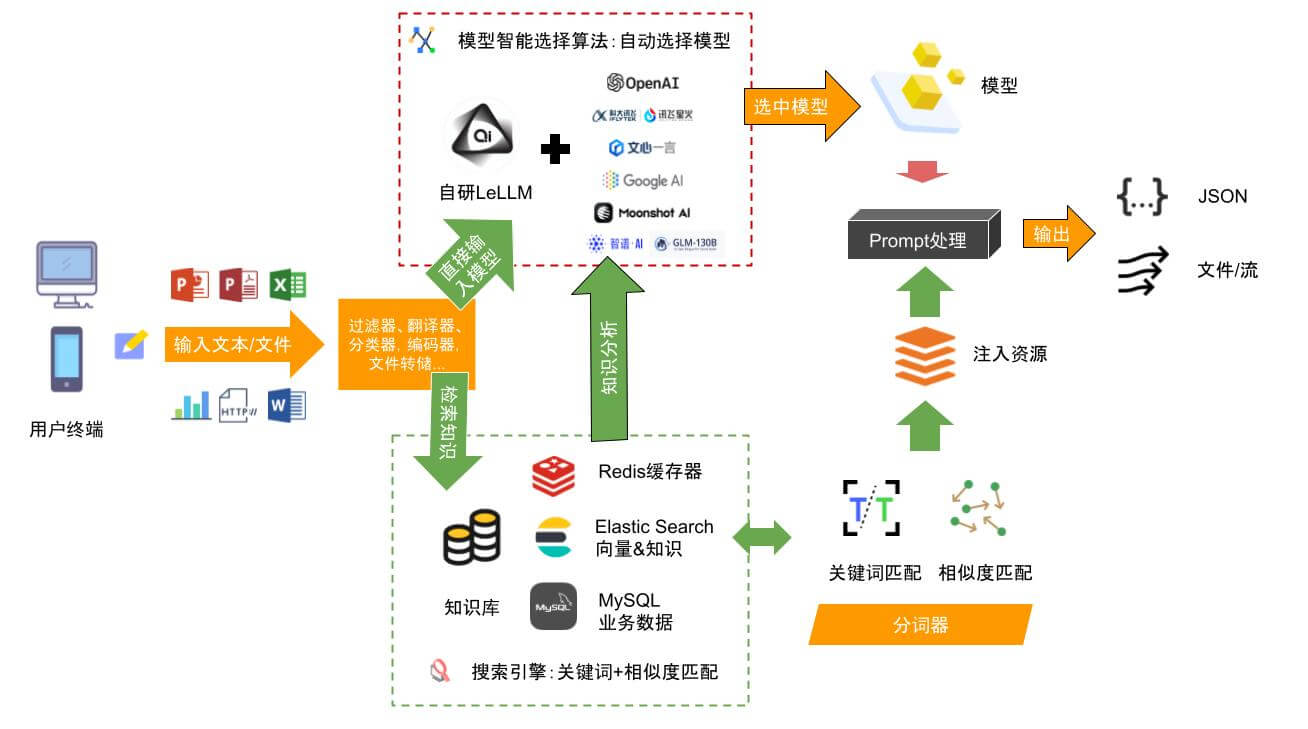
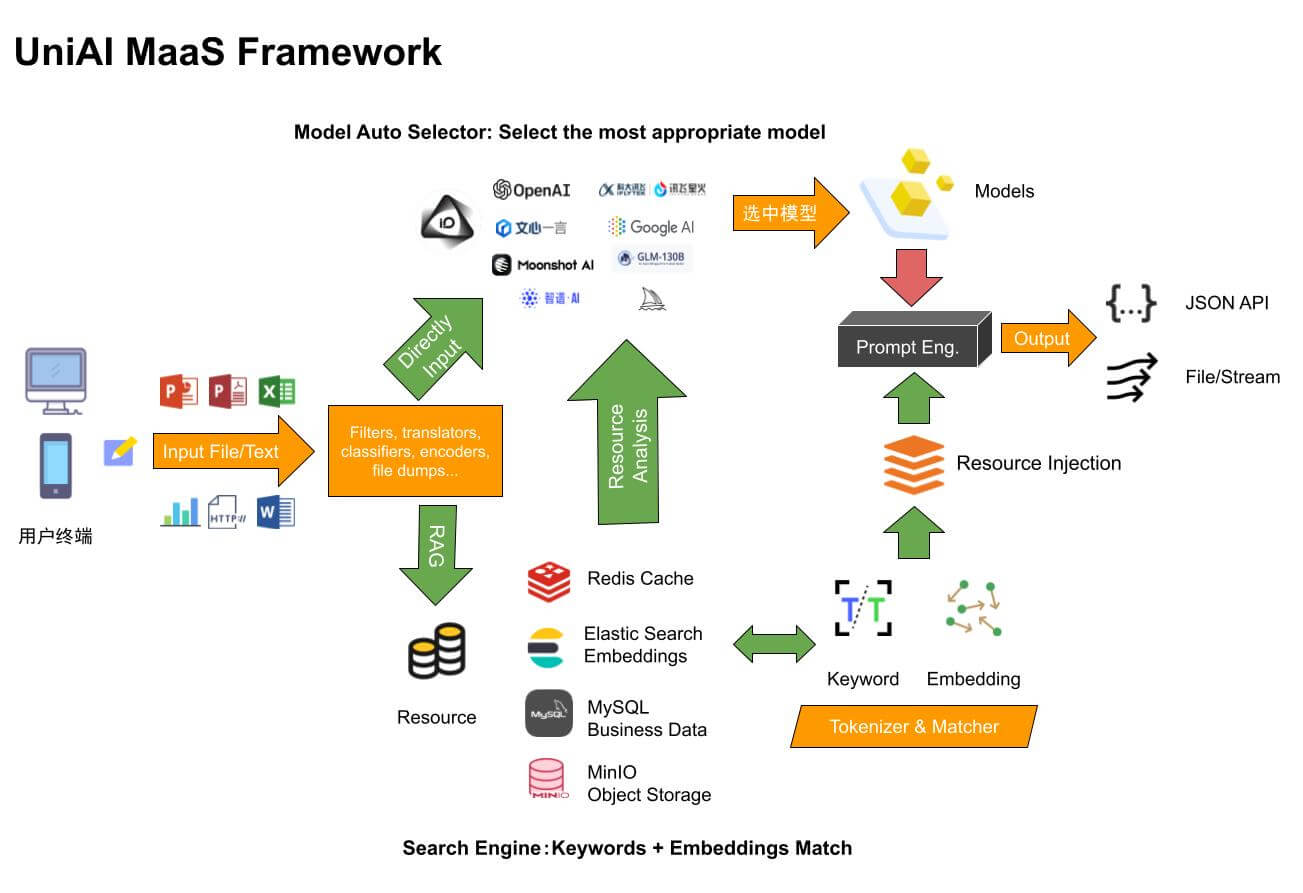
update readme and framework image

Changed region(s): [[0.0, 0.0, 0.9823, 0.9657], [0.921, 0.2414, 0.9517, 0.3018], [0.8596, 0.2414, 0.8903, 0.3018]]

diff --git a/README_CN.md b/README_CN.md
@@ -1,12 +1,12 @@
 <!-- @format -->
 
 <p align=center>
-<img src="./logo.png" width=100 height=100 />
+<img src="./logo.png" width=65 height=65 />
 </p>
 
-<h1 align=center>UniAI MaaS平台 </h1>
+<h1 align=center>UniAI MaaS</h1>
 
-<p align=center>由同名node.js库 <a href="https://www.npmjs.com/package/uniai">uniai</a> 助力</p>
+<p align=center>基于同名node.js库 <a href="https://www.npmjs.com/package/uniai">uniai</a> 开发</p>
 
 <p align=center>
 <img src="./framework.jpg" width=100% />
@@ -14,11 +14,13 @@
 
 ## 概述
 
-[For English Reading](./README.md) 🇨🇳
+[English Reading](./README.md) 🇺🇸
 
-UniAI的平台项目旨在简化多模型的集成过程，减低目的开发者处理过程的复杂度，使他们更加专注于业务逻辑的开发。该平台支持向量数据库，并允许用户上传、解析、操控Office工具文件。除了文本生成模型，该平台也提供诸如图片生成和识别等多模态模型，具有支持自定义开发以与微信小程序等平台集成的能力。
+UniAI MaaS旨在构建一个模型即服务平台，提供多模型的接入，开发者可以直接基于该平台进行AI应用开发。
 
-利用同名node.js库 **uniai**，UniAI提供了对各式各样AI模型以及实用工具的无缝存取和管理。为了在你的项目中融入UniAI，你可以通过[npm](https://www.npmjs.com/package/uniai) 或者[Github](https://github.com/devilyouwei/UniAI)来安装。
+该项目包含了向量数据库，缓存数据库，文件存储服务等，实现了RAG技术，可以解析上传的Office文件，并存入知识库，在模型输入时进行抽取和注入。
+
+同名node.js库**uniai**是从本项目中剥离出去的nodejs类库，集成了许许多多的模型，你也可以单独使用**uniai**，来自定义你的**MaaS**平台，这样或许更轻量化。为了在你的项目中融入UniAI底座，你可以通过[npm](https://www.npmjs.com/package/uniai) 或者[Github](https://github.com/devilyouwei/UniAI)来安装。
 
 ## 集成模型
 
@@ -47,7 +49,7 @@ UniAI集成了多个AI模型，已包括：
 
 ### 乐聊Pro版本
 
-👍我们推荐：<https://lechat.cas-ll.cn>
+👍推荐使用我们的专业版：<https://lechat.cas-ll.cn>
 
 -   多模型聊天
 -   办公室文件上传和解析
@@ -285,15 +287,15 @@ UniAI计划扩展其能力到：
 
 ## 贡献
 
-黄工 <huangyw@iict.ac.cn>
+黄有为 <huangyw@iict.ac.cn>
 
 中科苏州智能计算技术研究院
 
 ## 许可
 
-由 [Egg.js](https://www.eggjs.org/) 助力
-<img src="https://static-production.npmjs.com/255a118f56f5346b97e56325a1217a16.svg" height="20px"/>
+基于 [Egg.js](https://www.eggjs.org/)
+<img src="https://static-production.npmjs.com/255a118f56f5346b97e56325a1217a16.svg" height="15px"/>
 
 [MIT](./LICENSE)
 
-版权所有 © 2022至今, Youwei Huang
+版权所有 © 2022至今, 中科苏州智能计算技术研究院

diff --git a/README.md b/README.md
@@ -1,8 +1,8 @@
 <p align=center>
-<img src="./logo.png" width=80 height=80 />
+<img src="./logo.png" width=65 height=65 />
 </p>
 
-<h1 align=center>UniAI MaaS Platform </h1>
+<h1 align=center>UniAI MaaS</h1>
 
 <p align=center>Powered by the eponymous node.js library <a href="https://www.npmjs.com/package/uniai">uniai</a>.
 
@@ -10,17 +10,25 @@
 
 ## Overview
 
-[Read this in Simplified Chinese (简体中文说明)](./README_CN.md) 🇨🇳
+[Simplified Chinese (简体中文说明)](./README_CN.md) 🇨🇳
 
-This platform project aims to streamline the integration of multiple AI models, reducing the complexity of the process for developers. This allows developers to focus more on developing business logic.
+### Model as a Service
+UniAI MaaS aims to implement a model as a service platform integrated multi AI models, allowing developers to focus on developing AI-related applications.
 
-The platform supports a vector database and enables users to upload, parse, and manage office files.
+### Retrieval Augmented Generation
+The platform supports a vector database, and an object storage service which enables users to upload, parse, and manage office files.
 
+### Multi-modals & Multi-models
 In addition to text generation models, it also offers multi-modal models such as image generation and recognition.
 
-Furthermore, the platform supports custom development for integration with platforms like WeChat Mini Programs. 
+### Application
+UniAI MaaS supports custom application development for integration with platforms like WeChat Mini Programs. 
 
+### About
 UniAI, powered by the node.js library of the same name **uniai**, provides seamless access and management of a diverse range of AI models and utilities. To incorporate UniAI into your project, you can install it via [npm](https://www.npmjs.com/package/uniai) or [Github](https://github.com/devilyouwei/UniAI).
+
+### Frontend Example
+Front end: <https://github.com/uni-openai/lechat-pro>
 
 ## Integrated Models
 
@@ -41,7 +49,7 @@ UniAI integrates multiple AI models, including:
 
 Discover how UniAI is utilized and experience it firsthand:
 
-### LeChat Mini Program
+### LeChat Mini App
 
 To launch the mini app, use WeChat to scan the following QR code.
 
@@ -292,7 +300,7 @@ Institute of Intelligent Computing Technology, Suzhou, CAS
 ## License
 
 Powered by [Egg.js](https://www.eggjs.org/)
-<img src="https://static-production.npmjs.com/255a118f56f5346b97e56325a1217a16.svg" height="20px"/>
+<img src="https://static-production.npmjs.com/255a118f56f5346b97e56325a1217a16.svg" height="15px"/>
 
 [MIT](./LICENSE)
 
